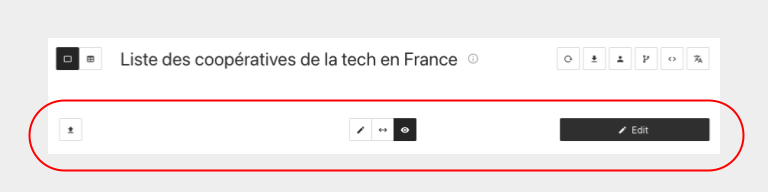
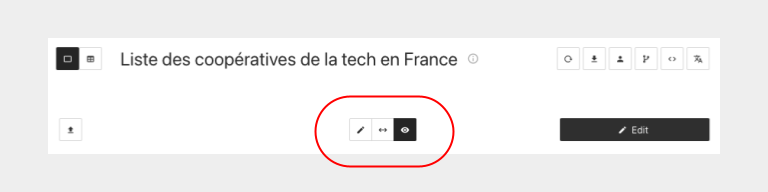
more tuto images & implementation in markdowns

diff --git a/texts/tutorial/tutorial-overview-edition-en.md b/texts/tutorial/tutorial-overview-edition-en.md
@@ -1,11 +1,24 @@
 
 ## Edition features
 
+<div>
+  <img
+    alt="TUTORIAL-INTRO"
+    src="https://raw.githubusercontent.com/multi-coop/gitribute-documentation-content/main/images/tutorial/commented/tutorial-edition.png"
+    />
+</div>
+
+There are basic choices available in "edit" mode, we will refer to those choices as "Edit view modes" :
+
+- **"Preview mode"** : preview of the document as you edit it ;
+- **"Edit mode"** : view where you can edit the source document ;
+- **"Diff mode"** : preview of the differences between the source document and your own modifications ;
+
 Other features are quite useful but more specific to table files (like `csv`), for instance :
 
-- **Switch between table and cards view**
-- **Show external ressources**
-- **Filter a table**
+- **Switch between "table" and "cards" view**
+- **Show the external ressources**
 - **Make a text search across the table**
+- **Filter a table**
 
 More details about the edition features **[in this section](/tutorial-edition)**

diff --git a/texts/tutorial/tutorial-overview-en.md b/texts/tutorial/tutorial-overview-en.md
@@ -1,12 +1,15 @@
 
 # Tutorials
 
-🚧  &nbsp; `Work in progress...`
-
 This section aims to give you some hints for using basic features of Gitribute.
 
 Ideally we wouldn't want to write this section at all, given we are trying to design Gitribute as self-explanatory: a lot of tooltips are associated to the action buttons, so the user could directly have a glimpse of what every button does without having to jump to the docs.
 
 But if we're honest we're not 100% sure our UX design will be clear enough, so tutorials could be a complementary tool to guide new users.
 
-> ![TUTORIAL-INTRO](https://raw.githubusercontent.com/multi-coop/gitribute-documentation-content/main/images/tutorial/edition-preview-csv-table.png)
+<div style="border: thin solid lightgrey;">
+  <img 
+    alt="TUTORIAL-INTRO"
+    src="https://raw.githubusercontent.com/multi-coop/gitribute-documentation-content/main/images/tutorial/edition-preview-csv-table.png"
+    />
+</div>

diff --git a/texts/tutorial/tutorial-overview-actions-en.md b/texts/tutorial/tutorial-overview-actions-en.md
@@ -1,11 +1,18 @@
 ## Get on with Gitribute's main actions
 
+<div>
+  <img
+    alt="TUTORIAL-INTRO"
+    src="https://raw.githubusercontent.com/multi-coop/gitribute-documentation-content/main/images/tutorial/commented/tutorial-actions.png"
+    />
+</div>
+
 Some action features are available globaly :
 
 - **Show a file's infos**
 - **Copy the widget's html code**
 - **Manipulate the user options**
 - **Switch between edit view modes**
-- **Use the `save` button (send a contribution)**
+
 
 More details about those features **[in this section](/tutorial-actions)**

diff --git a/texts/tutorial/tutorial-overview-contribution-en.md b/texts/tutorial/tutorial-overview-contribution-en.md
@@ -1,5 +1,12 @@
 ## Contribution features
 
+<div>
+  <img
+    alt="TUTORIAL-INTRO"
+    src="https://raw.githubusercontent.com/multi-coop/gitribute-documentation-content/main/images/tutorial/commented/tutorial-contribution.png"
+    />
+</div>
+
 Finally some fetaures are correlated to the core purpose of Gitribute : "Contribute with Git".
 
 Making a open contribution to a document, including the possibility for the document's owner to reject or to modify it comes with some little perks and a bit of vocabulary.
